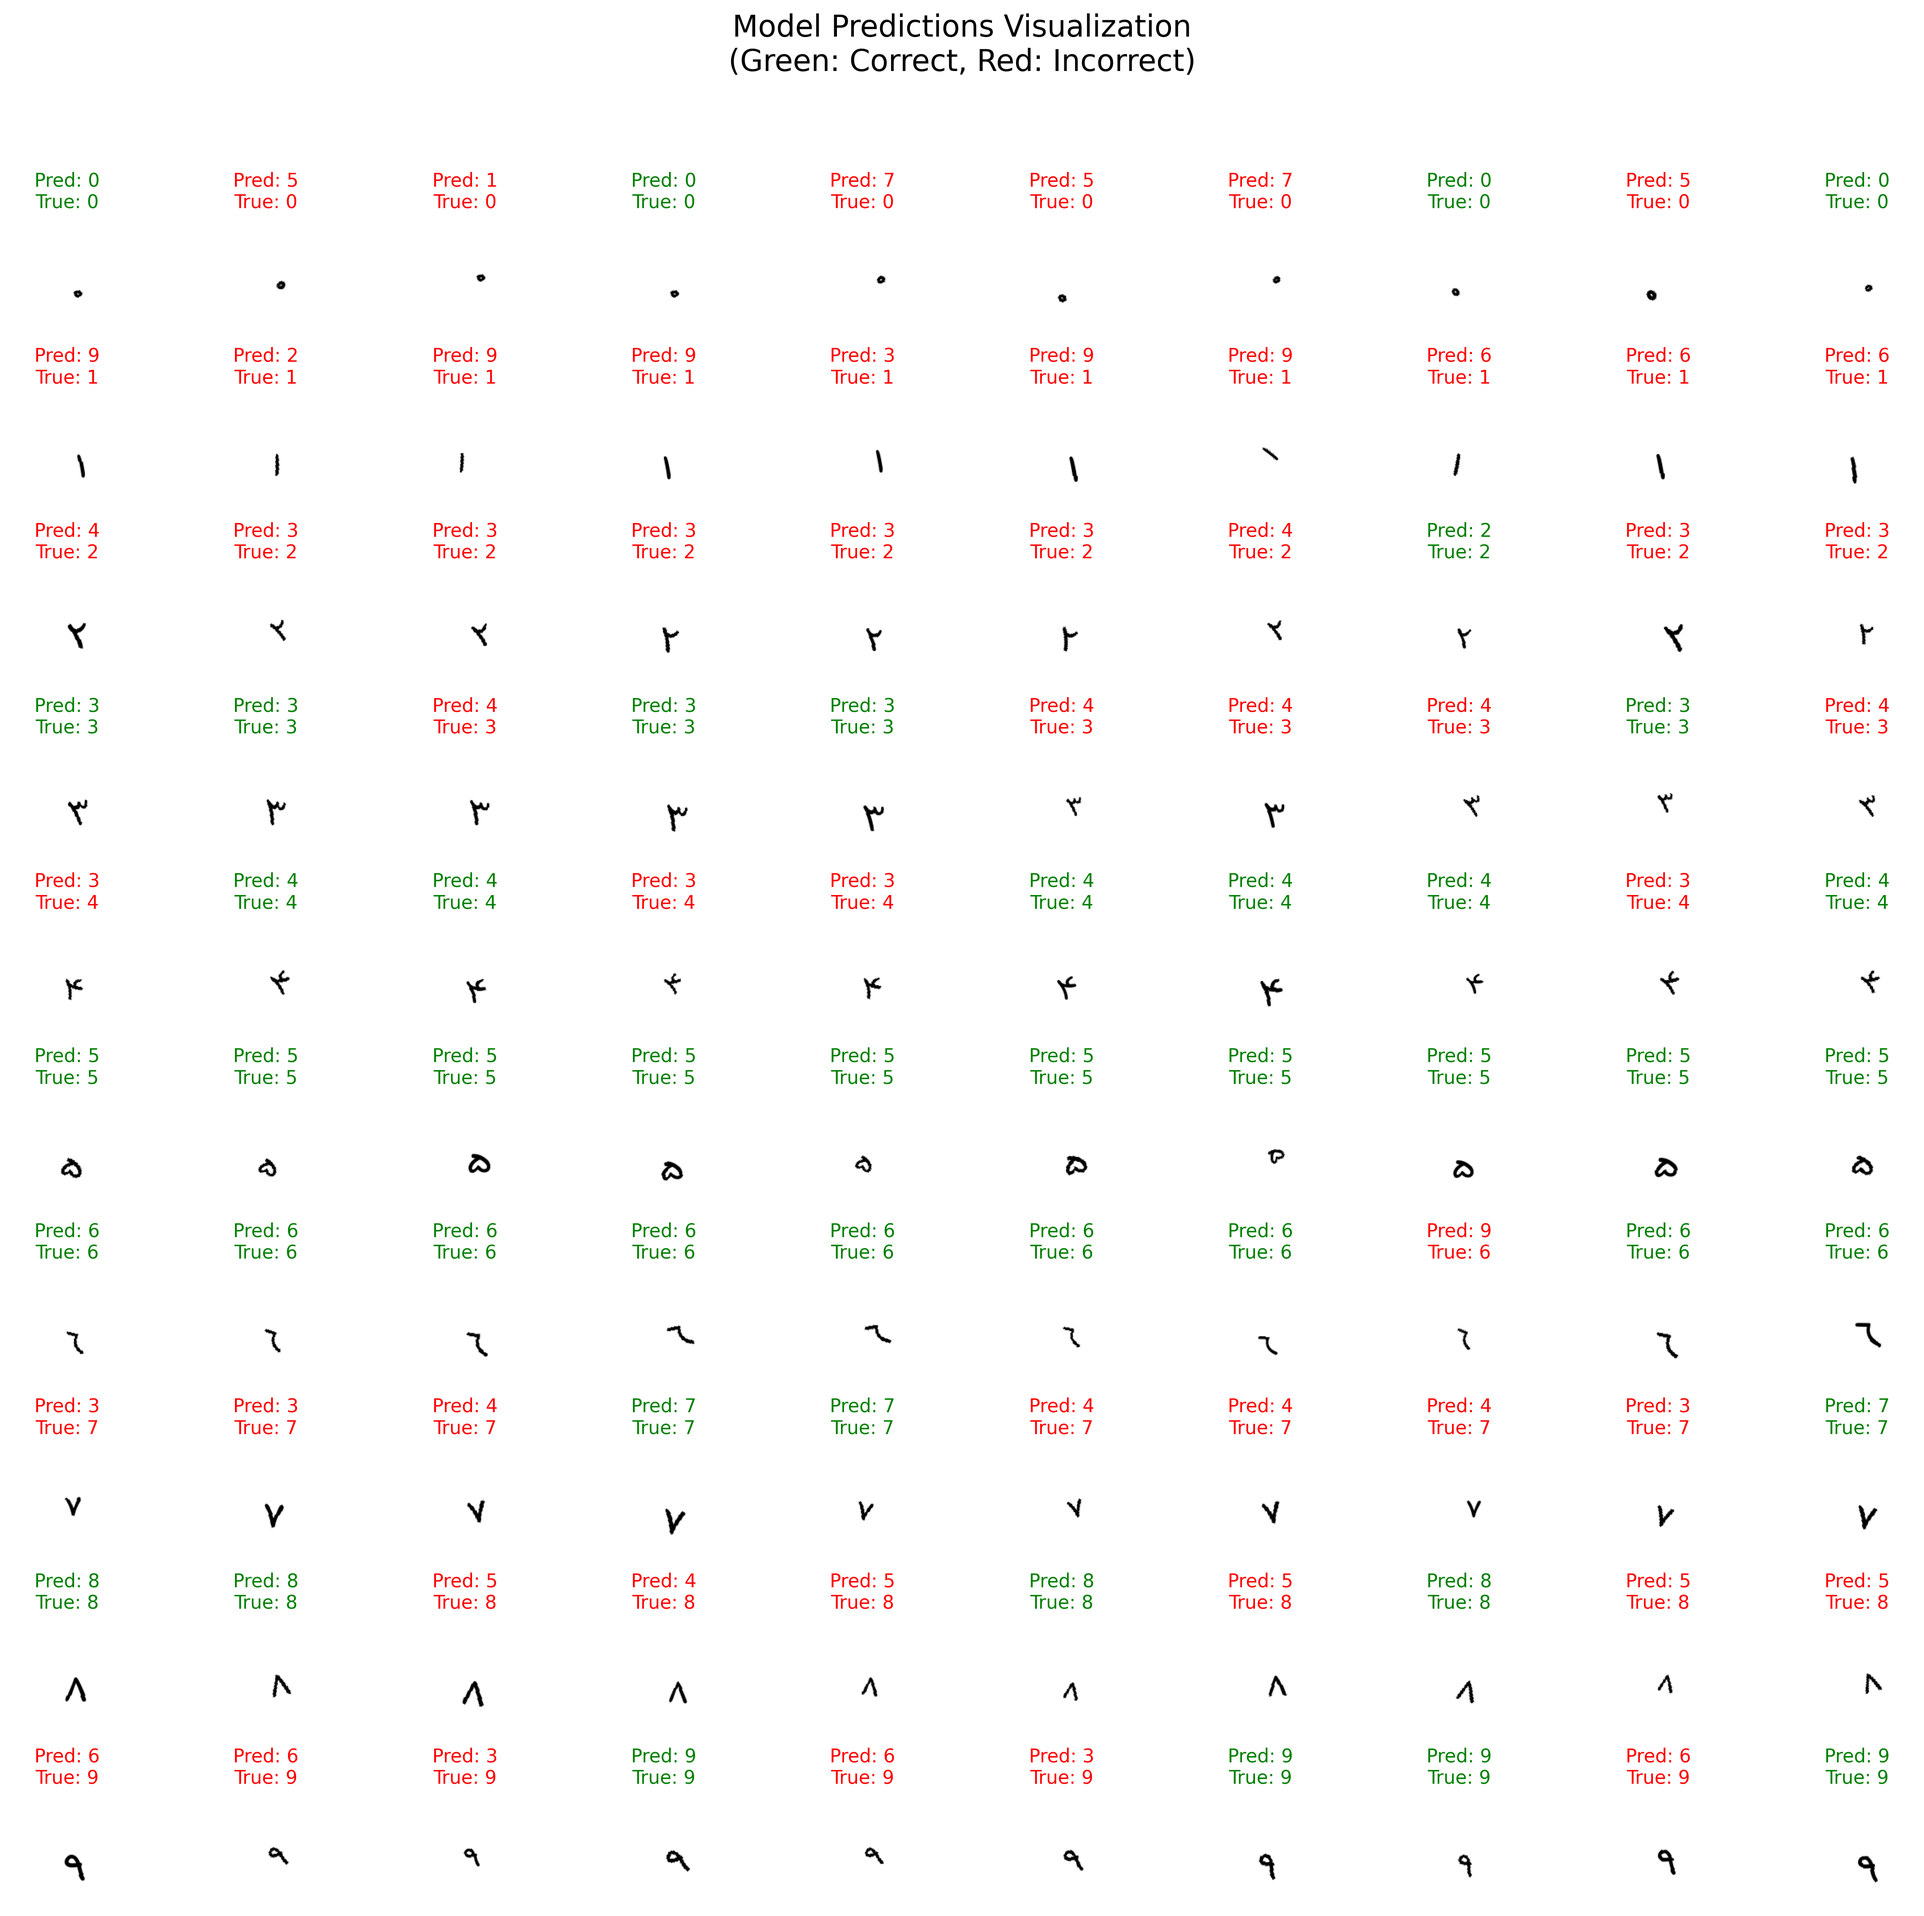
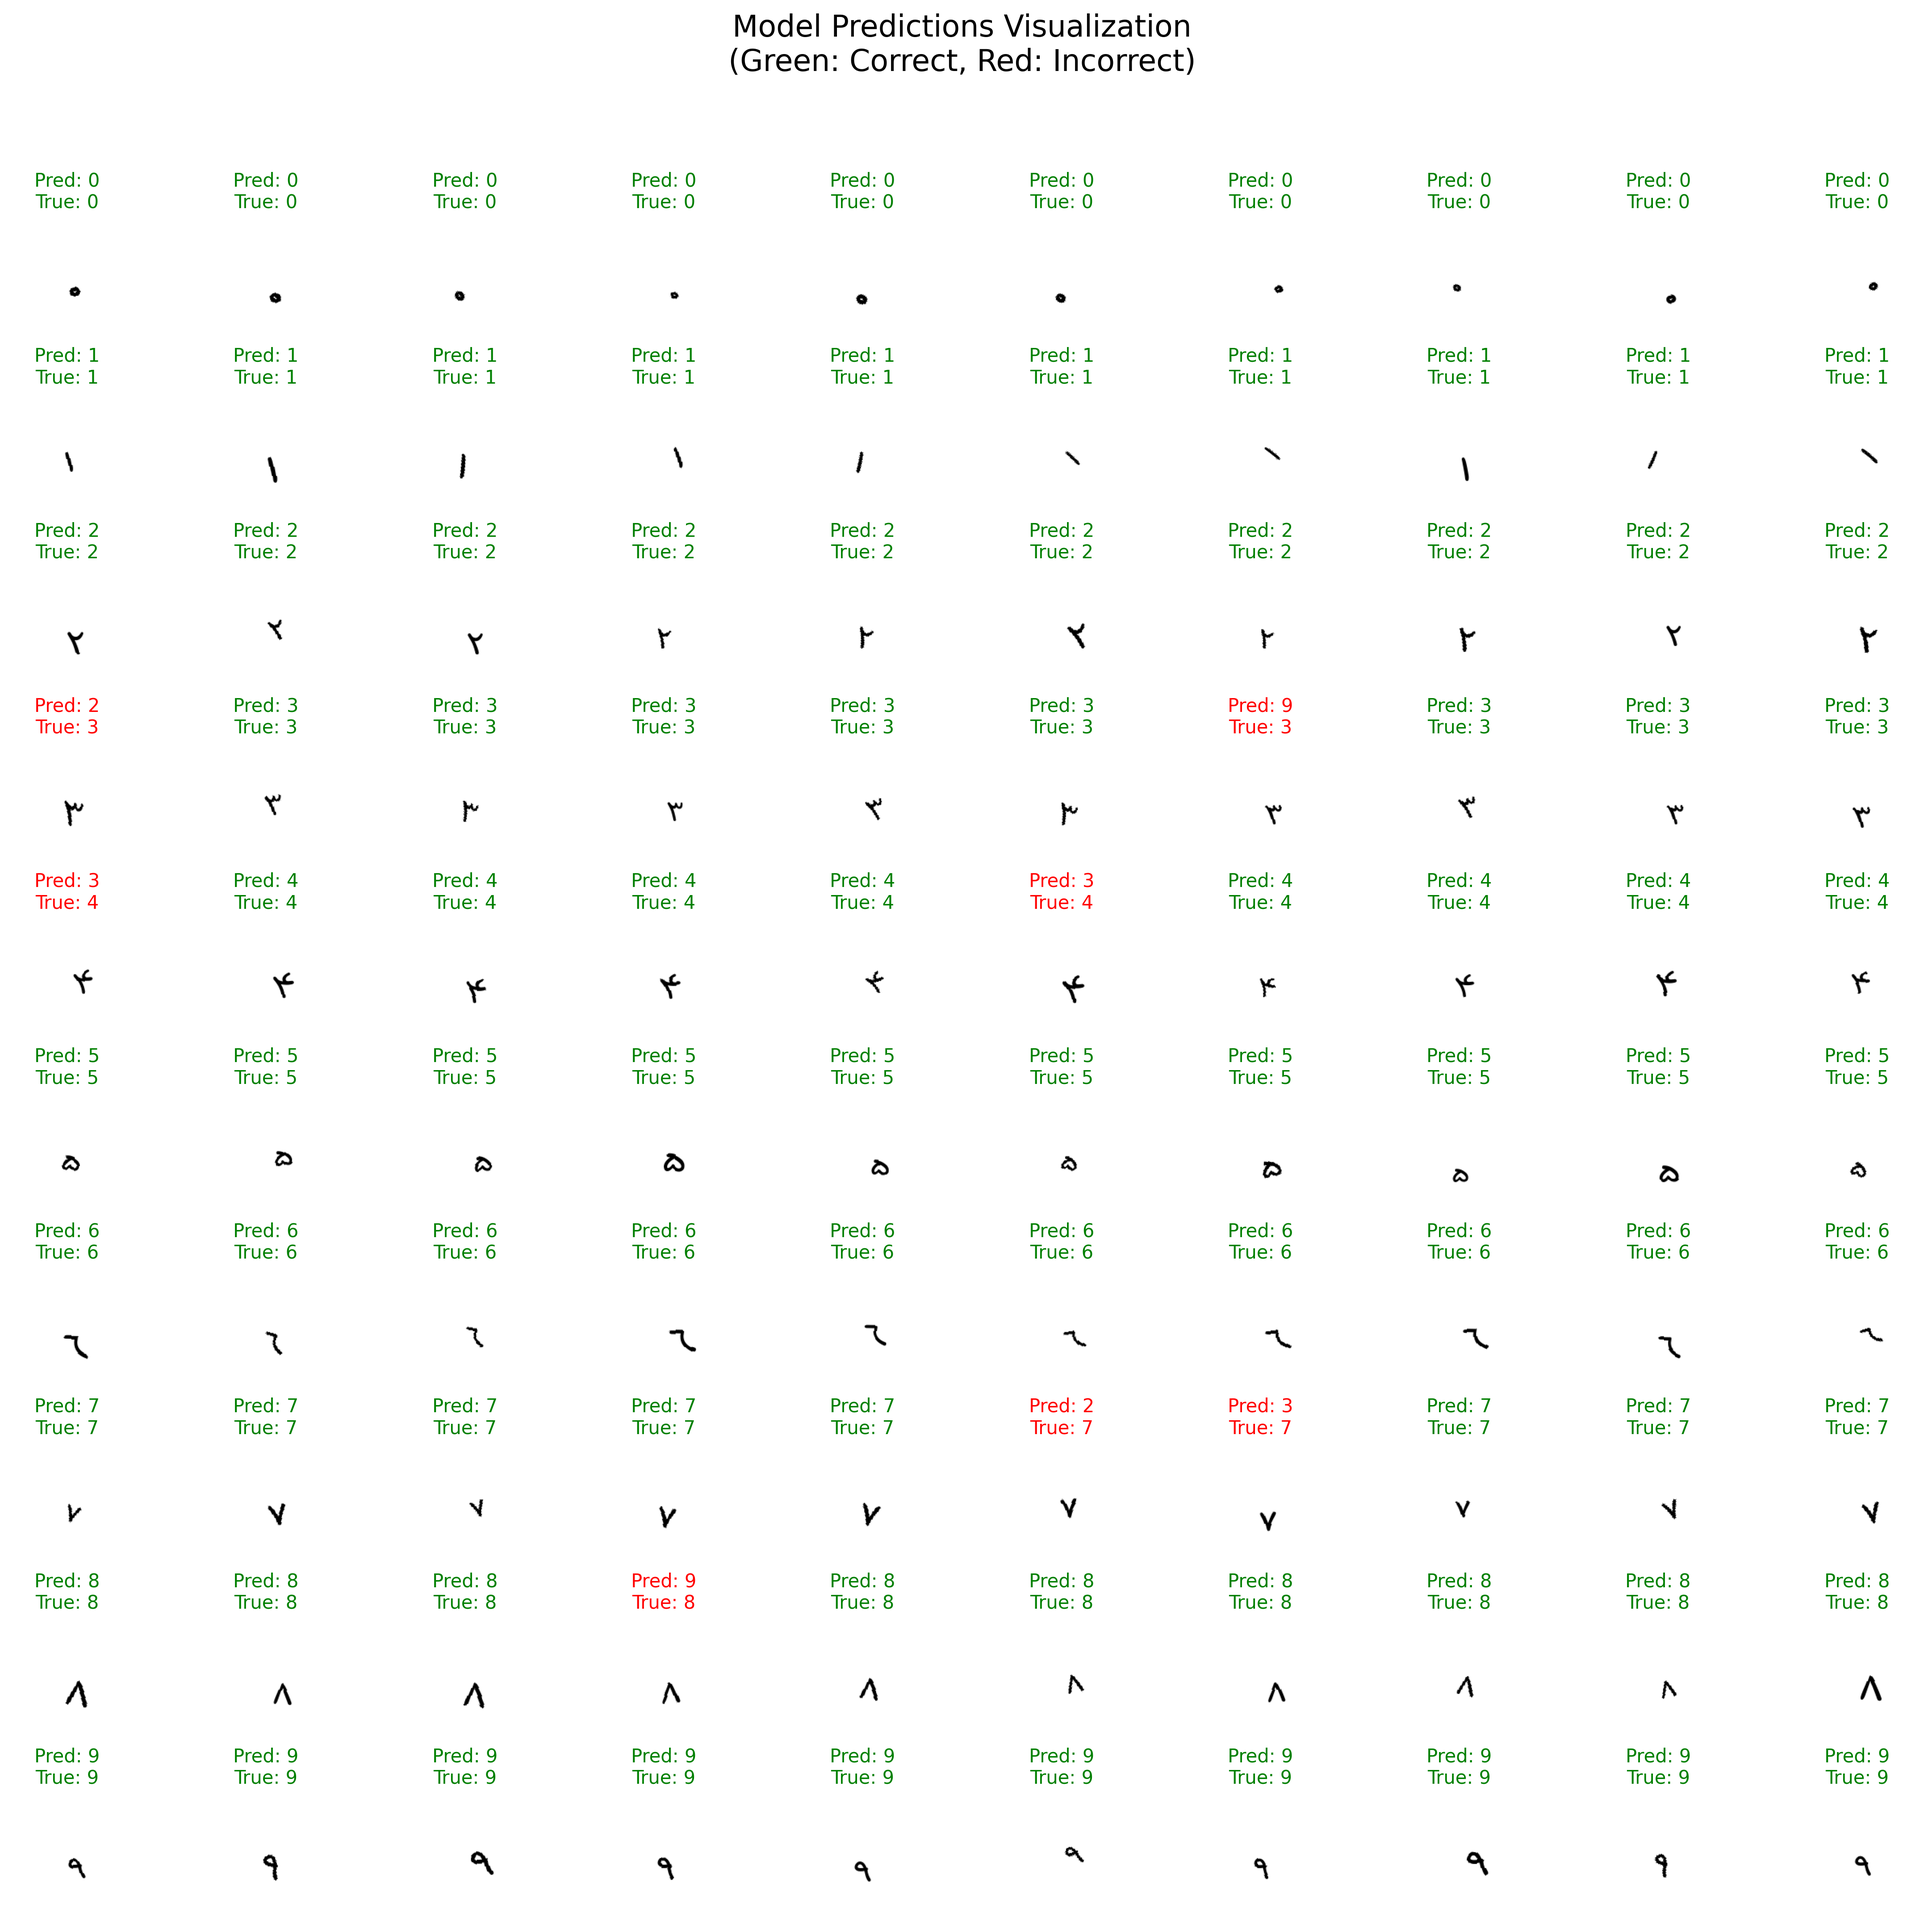
Validation Accuracy: 0.93 5.5MB model

diff --git a/qwen_transformer.py b/qwen_transformer.py
@@ -172,7 +172,7 @@ def create_model(input_shape=(128, 128, 1), num_classes=10):
     x_att = patches + position_embedding
     
     # دو لایه ترنسفورمر
-    for _ in range(2):
+    for _ in range(4):
         x_att = transformer_block(x_att)  # شکل خروجی: (4, 64)
     
     # تبدیل به فرمت تصویری
